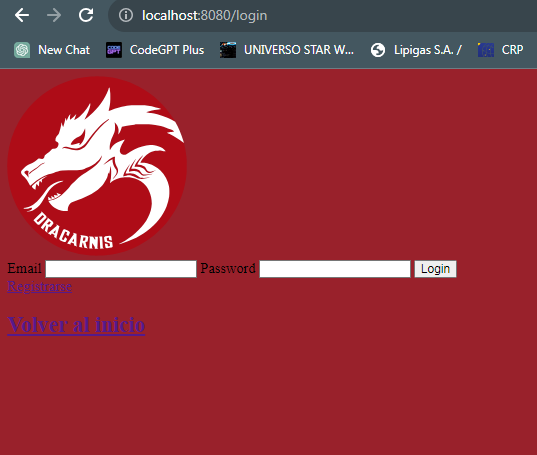
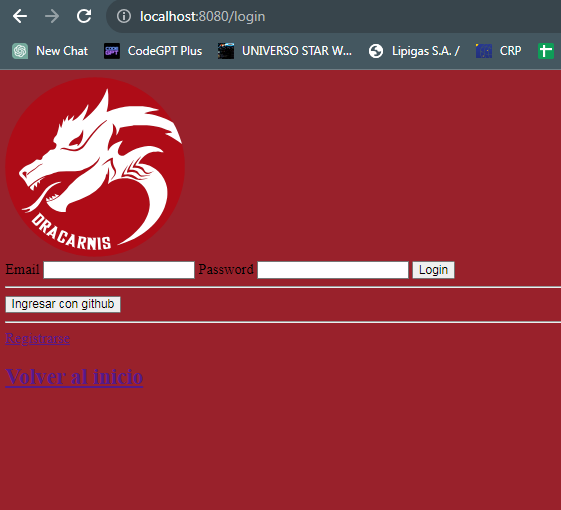
actualizacion de readme

Changed region(s): [[0.0, 0.1846, 1.0, 0.7692], [0.0, 0.0, 1.0, 0.1538], [0.0894, 0.0, 0.1788, 0.0615]]

diff --git a/README.md b/README.md
@@ -3,6 +3,8 @@
 
 Este proyecto es una aplicación en Node.js que gestiona productos y carritos de compras. Permite agregar, actualizar, eliminar y consultar productos y carritos de compra. Además, utiliza Handlebars para renderizar las vistas tanto de la lista de productos y detalle del producto como el carrito con los productos agregados. Para poder acceder a las funcionalidades de ver y gestionar productos, debes pasar un login de usuario, registrarte primeramente y luego validar los datos al ingresar.
 
+En esta ultima actualizacion, el proceso de registro y login se hace con la proteccion de la contraseña del usuario almacenada en la base de datos ademas de agregar un boton para realizar el registro con tu perfil de gitHub.
+
 ## Instalación
 
 1. Clona este repositorio en tu máquina local.
@@ -23,6 +25,10 @@ Este proyecto es una aplicación en Node.js que gestiona productos y carritos de
     npm i express-session
     npm i session-file-store
     npm i connect-mongo
+    npm i bcrypt
+    npm i passport
+    npm i passport-local
+    npm i passport-github2
 ```
 
 
@@ -184,6 +190,8 @@ Integracion/
 - express-session
 - session-file-store
 - connect-mongo
+- bcrypt
+- passport
 
 
 
@@ -193,4 +201,5 @@ Integracion/
 ![Captura de Pantalla 2](/src/public/files/Capturadepantalla2.png)
 ![Captura de Pantalla 3](/src/public/files/Capturadepantalla3.png)
 ![Captura de Pantalla 4](/src/public/files/Capturadepantalla4.png)
+![Captura de Pantalla 5](/src/public/files/Capturadepantalla5.png) ![Captura de Pantalla 6](/src/public/files/Capturadepantalla6.png)
 
